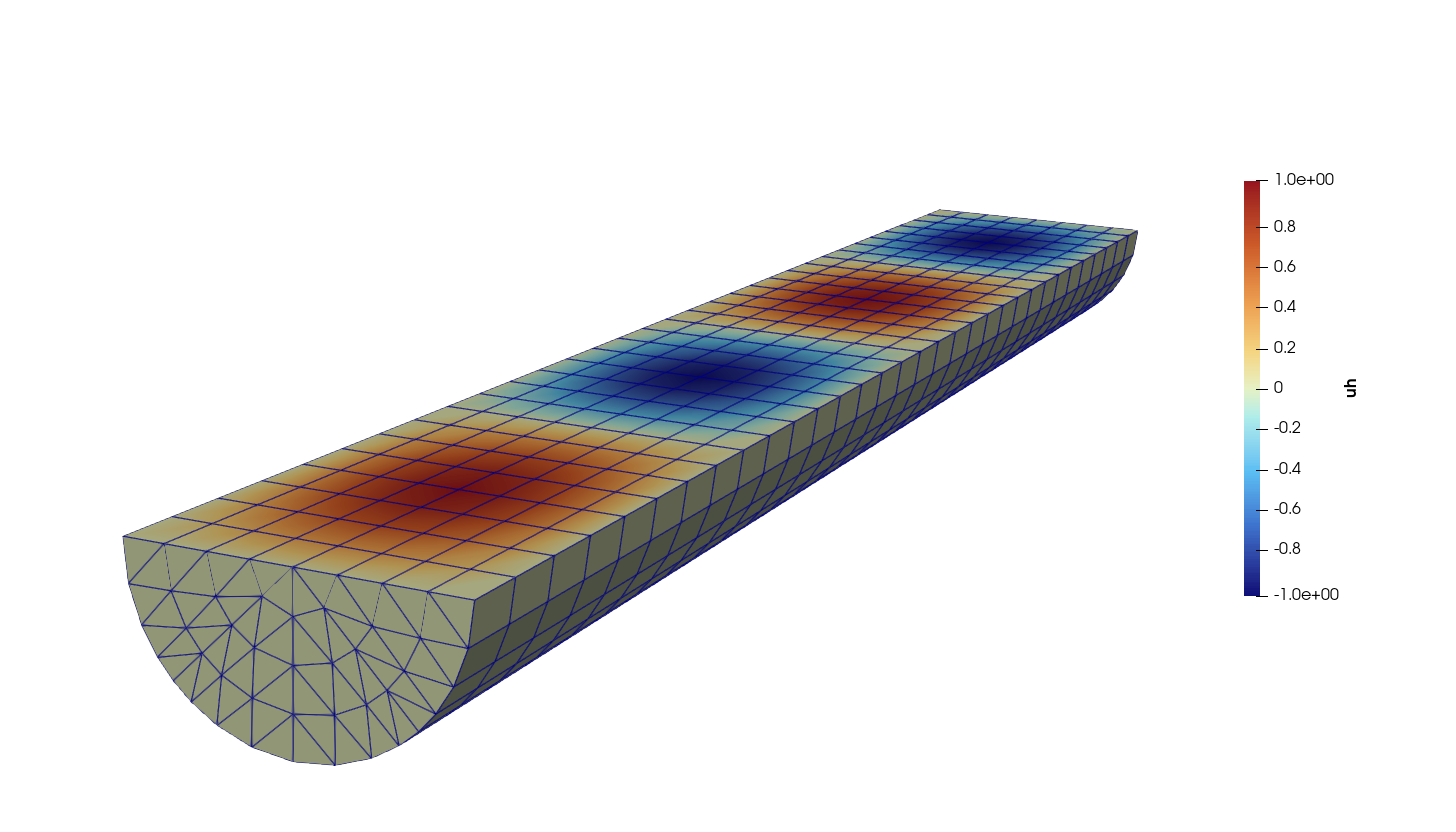
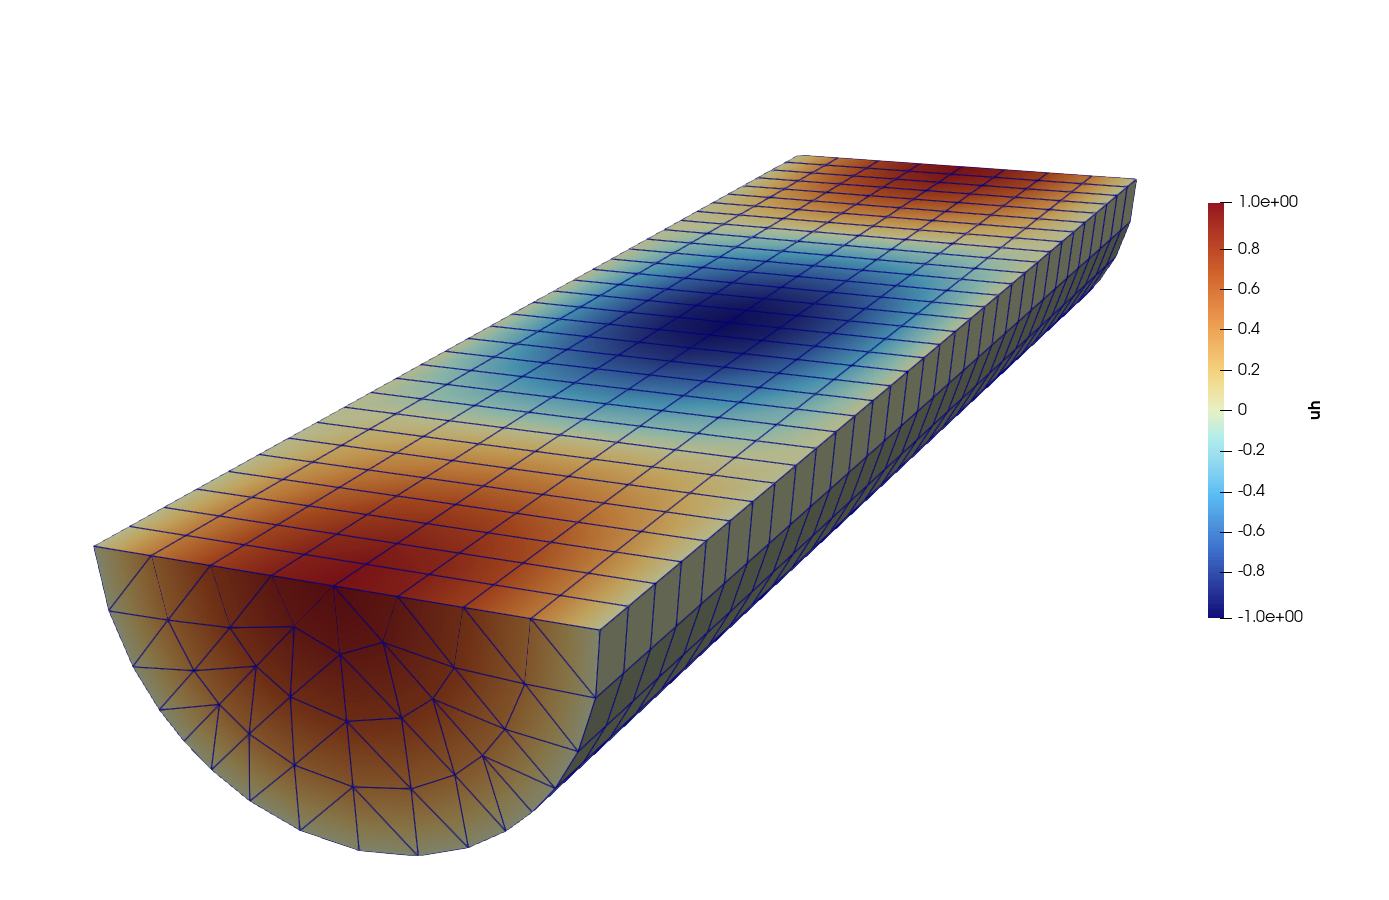
I have simplified exposition by making examples 3 and 4 the same problem. I have rewritten verbose sentences to make the demo clearer and easier to use

Changed region(s): [[0.0619, 0.1562, 0.9287, 0.9688], [0.9287, 0.4375, 0.9597, 0.4688]]

diff --git a/demos/periodic_meshes/periodic_meshes.py.rst b/demos/periodic_meshes/periodic_meshes.py.rst
@@ -112,16 +112,19 @@ We plot the solution below.
 
    Finite element solution to 2D periodic Poisson problem.
 
-3D Periodic Poisson Problem
----------------------------
+3D Periodic Helmholtz Problem
+-----------------------------
 
-Now we solve the 3D :math:`z`-periodic Poisson problem
+For the simplest 3D shapes (cube and cuboid) Firedrake is able to generate tetrahedral periodic meshes using the commands ``PeriodicUnitCubeMesh`` and ``PeriodicBoxMesh`` respectively.
+For cylindrical objects we have to construct a 2D cross-section and extrude, forming a mesh with prismatic elements. To construct any periodic mesh with tetrahedral elements we need to use Netgen, which is discussed in the next section.
+
+For now we solve the 3D :math:`z`-periodic Helmholtz problem
 
 .. math::
 
-    - \Delta u = (5 - x^2 - y^2)\sin(z), \quad u(x,y,0) = u(x, y, 2 \pi), \quad u\vert_{\text{walls}} = 0,
+    (I - \Delta) u = f , \quad u(x,y,0) = u(x, y, 2 \pi), \quad u\vert_{\text{walls}} = 0,
 
-on the domain
+on the cylindrical domain
 
 .. math::
 
@@ -132,19 +135,19 @@ on the domain
     0\le z\le 2\pi
     \right\}.
 
-The exact solution is
-:math:`u(x,y,z) = (1-x^2-y^2)\sin(z)`.
-In the case of cube or cuboid 3D periodic domains, Firedrake is able to make tetrahedral periodic meshes using the commands ``PeriodicUnitCubeMesh`` and ``PeriodicBoxMesh`` respectively.
-For this problem we need a periodic cylinder: we first build a 2D mesh for the desired cross section of the cylinder and then we use the command ``ExtrudedMesh`` with flag ``periodic=True`` to generate a mesh of prisms. ::
+We can manufacture a right-hand side by choosing the solution
+:math:`u_{\text{exact}}(x,y,z) = (1-x^2-y^2)\cos(z)` which gives :math:`f = (I - \Delta) u_{\text{exact}}`.
 
-    R = 2.0
+
+We build a 2D mesh for the desired cross section of the cylinder and then we use the command ``ExtrudedMesh`` with flag ``periodic=True`` to generate a mesh of prisms. ::
+
     refinements = 2
     base = UnitDiskMesh(refinements)
 
     mesh = ExtrudedMesh(
         base,
         layers=32,
-        layer_height=2*pi*R/32,
+        layer_height=2*pi/32,
         periodic=True,
     )
 
@@ -158,12 +161,15 @@ The two important arguments are ``layers`` and ``layer_height``, which tell Fire
     v = TestFunction(V)
 
     uh = Function(V, name="Numerical")
-    u_exact = (1 - x*x - y*y) * sin(z)
+    u_exact = (1 - x*x - y*y) * cos(z)
 
-    f = (5 - x*x - y*y) * sin(z)
+    f = u_exact - div(grad(u_exact))
 
-    a = inner(grad(u), grad(v))*dx
+    u = TrialFunction(V)
+    v = TestFunction(V)
+    a = (inner(u, v) + inner(grad(u), grad(v))) * dx
     L = inner(f, v) * dx
+
 
     bc = DirichletBC(V, 0.0, "on_boundary")
 
@@ -174,25 +180,26 @@ The two important arguments are ``layers`` and ``layer_height``, which tell Fire
     )
 
     print(f"L2 error = {errornorm(u_exact, uh, norm_type='L2'):.3e}")
-    VTKFile("output/cylinder_poisson.pvd").write(uh)
-
+    VTKFile("output/cylinder_fd_Helmholtz.pvd").write(uh)
 
 We plot the solution below.
 
 
 .. figure:: Example3.png
    :align: center
-   :alt: Cross-section of the finite element solution to a 3D periodic Poisson problem.
+   :alt: Cross-section of the finite element solution to a 3D periodic Helmholtz problem.
 
-   Cross-section of the finite element solution to a 3D periodic Poisson problem using prismatic elements.
+   Cross-section of the finite element solution to a 3D periodic Helmholtz problem using prismatic elements.
 
 Periodic Meshes From Netgen
 ---------------------------
 
+Netgen can help us generate a periodic mesh of tetrahedral elements.
+
 Netgen can identify pairs of vertices lying on opposite boundaries of a geometry as being *the same* point.
 When such a mesh is imported into Firedrake, the identified vertices are merged in the mesh topology, so that
 a continuous (CG) function space automatically shares its degrees of freedom across the seam: the mesh is
-genuinely **periodic**. This is exactly the representation Firedrake uses for its built-in ``PeriodicBoxMesh``, and it is now available for any Netgen geometry carrying
+genuinely **periodic**. This is exactly the representation Firedrake uses for its built-in ``PeriodicBoxMesh``, and it is also available for any Netgen geometry carrying
 periodic identifications.
 
 Identifications are declared on the geometry, before meshing, with the OCC
@@ -211,28 +218,21 @@ where ``transformation`` is the rigid motion (typically a translation) that maps
 Netgen then meshes the two boundaries compatibly and records the vertex pairs; Firedrake consumes them
 automatically -- no extra flag on the ``Mesh`` constructor is required.
 
-As a physically motivated example we build the *periodic cylinder*, the classic reduced ("screw pinch") model
-of a tokamak plasma column. A tokamak is a torus, so the plasma is periodic in the toroidal direction; in the
-large-aspect-ratio limit one straightens a toroidal section into a cylinder and identifies its two circular
-ends, recovering periodicity along the axis. 
-
-We take the axial (toroidal) coordinate to run over :math:`[0, 2\pi)`
-and identify the two end caps by a translation of :math:`2\pi R_0` along ``Z``. 
-:math:`R_0` is called the major radius and ensures that the torus that the cylinder defines is the correct length. ::
+To construct a periodic cylinder of length :math:`2\pi` we identify the two end caps of the cylinder by a translation of :math:`2\pi` along ``z``. :: 
 
     from netgen.occ import Cylinder, OCCGeometry, Pnt, Z, gp_Trsf, gp_Vec
     from netgen.meshing import IdentificationType
 
-    R0 = 1
-    height = 2 * pi * R0
+    height = 2 * pi 
     cyl = Cylinder(Pnt(0, 0, 0), Z, r=1.0, h=height)
+
     # Label the lateral wall, then the two end caps that we will identify.
     for face in cyl.faces:
         face.name = "wall"
     cyl.faces.Min(Z).name = "bottom"
     cyl.faces.Max(Z).name = "top"
+
     # Identify the bottom cap with the top cap: a translation of 2*pi along Z
-    # maps one onto the other, making the axial direction periodic.
     cyl.faces.Min(Z).Identify(cyl.faces.Max(Z), "toroidal",
                               IdentificationType.PERIODIC,
                               gp_Trsf.Translation(gp_Vec(0, 0, height)))
@@ -249,27 +249,16 @@ and identify the two end caps by a translation of :math:`2\pi R_0` along ``Z``.
 
 Because the two end caps have been identified, no boundary markers survive on them: the seam has become an
 *interior* set of facets, and the only labelled boundary that remains is the lateral wall. This is what makes
-a continuous field wrap around continuously in the axial direction. We can verify the geometry survived the
-merge intact -- the volume of the cylinder is :math:`\pi r^2 h = 2\pi^2 R0` -- while the ends carry no exterior
-facets::
+a continuous field wrap around continuously in the ``z``-direction. We can verify the geometry survived the
+merge intact --- the volume of the cylinder is :math:`\pi r^2 h = 2\pi^2`: ::
 
     volume = assemble(Constant(1.0) * dx(domain=msh))
     print(
         f"cylinder volume: {volume:.4f}  "
-        f"(exact 2*pi**2*R0 = {2*pi**2*R0:.4f})"
+        f"(exact 2*pi**2 = {2*pi**2:.4f})"
     )
 
-To show that the periodicity is doing real work, we solve a Helmholtz problem whose exact solution is periodic
-in the axial coordinate and vanishes on the lateral wall,
-
-.. math::
-
-   u_{\text{ex}}(x, y, z) = \cos(z/R_0) \bigl(1 - x^2 - y^2\bigr),
-
-so that we can impose a homogeneous Dirichlet condition on the wall while relying on the identified ends for
-continuity along the axis. We look up the id of the ``"wall"`` boundary with ``GetRegionNames`` (as in the
-Poisson example above) and manufacture the right-hand side :math:`f = u_{\text{ex}} - \Delta u_{\text{ex}}` for
-:math:`(I - \Delta)u = f`::
+We solve again the same Helmholtz problem as in the previous section. ::
 
     V = FunctionSpace(msh, "CG", 2)
     x, y, z = SpatialCoordinate(msh)
@@ -280,6 +269,8 @@ Poisson example above) and manufacture the right-hand side :math:`f = u_{\text{e
     v = TestFunction(V)
     a = (inner(u, v) + inner(grad(u), grad(v))) * dx
     L = inner(f, v) * dx
+    
+We look up the id of the ``"wall"`` boundary with ``GetRegionNames`` ::
 
     labels = [i + 1 for i, name in enumerate(ngmsh.GetRegionNames(codim=1)) if name == "wall"]
     bc = DirichletBC(V, 0, labels)
@@ -303,11 +294,17 @@ We plot the solution below with a "crinkle cut" cross-section to inspect the sol
 Netgen Tokamak Example
 ---------------------------
 
+Helmholtz problems on periodic cylinders are used in simplified models of magnetic confinement fusion devices, where the straight cylinder acts as a large-aspect-ratio approximation of a torus. 
+To obtain a more realistic geometry, we construct the domain in cylindrical coordinates and choose a cross-section representative of a tokamak plasma. After solving we transform the solution to Cartesian coordiantes. 
 
-We can also solve a Helmholtz problem on a realistic tokamak geometry, although we no longer have an analytical solution to test against.
-We now work with the physical cylindrical coordinates :math:`(R,\phi,Z)`.
-The cross-section is constructed in the :math:`(R,Z)` plane and extruded
-through one period in :math:`\phi`. 
+We describe the tokamak in cylindrical coordinates :math:`(R,\phi,Z)` where :math:`\phi` is the toroidal angle.
+The cross-section is constructed in the :math:`(R,Z)` plane. Rather than extruding by :math:`\phi` we extrude by the corresponding toroidal arc-length 
+
+.. math::
+
+  s = R_0 \phi,
+
+where :math:`R_0` is called the major radius. This makes one complete revolution of the tokamak have length :math:`2 \pi R_0`.
 We parametrize the tokamak cross-section using the formula 
 
 .. math::
@@ -382,23 +379,23 @@ where :math:`\delta` is the triangularity, :math:`\kappa` is the elongation, :ma
 
 The physical cylindrical coordinate convention is :math:`(R,\phi,Z)`.
 However, the Netgen mesh stores its coordinate components in the order
-:math:`(R,Z,\phi)`: the first two components are the coordinates of the
-cross-section and the third is the extrusion coordinate. We therefore unpack
-``SpatialCoordinate`` as ``R, Zc, phi``.
+:math:`(R,Z,s)`: the first two components are the coordinates of the
+cross-section and the third is the toroidal arc-length. We therefore unpack
+``SpatialCoordinate`` as ``R, Zc, s``.
 
 We solve the Helmholtz problem
 
 .. math::
 
-    (I-\Delta)u=f
+    (I-\Delta)u=f, \quad u(r, 0, z) = u(r, 2 \pi R_0, z), \quad u|_{\text{walls}} = 0,
 
 with source term
-:math:`f(R,\phi,Z)=RZ\cos(\phi)`. ::
+:math:`f(R,s,Z)=RZ\cos(s)`. ::
 
     V = FunctionSpace(msh, "CG", 2)
-    R, Zc, phi = SpatialCoordinate(msh)
+    R, Zc, s = SpatialCoordinate(msh)
 
-    f = R * Zc * cos(phi)
+    f = R * Zc * cos(s)
 
     u = TrialFunction(V)
     v = TestFunction(V)
@@ -416,7 +413,7 @@ with source term
     solve(a == L, uh, bcs=bc)
     VTKFile("output/tokamak_helmholtz.pvd").write(uh)
 
-We plot the output in :math:`(R, \phi, Z)`, a cylindrical representation:
+We plot the output in :math:`(R, s, Z)`, a cylindrical representation:
 
 
 .. figure:: Example5.png
@@ -431,16 +428,16 @@ Cartesian visualisation by interpolating the cylindrical-to-Cartesian map
 
 .. math::
 
-    (R,\phi,Z) \longmapsto
-    \bigl( R\cos(\phi / R_0), R\sin(\phi / R_0), Z \bigr)
+    (R,s,Z) \longmapsto
+    \bigl( R\cos(s / R_0), R\sin(s/ R_0), Z \bigr)
 
 into the mesh coordinate field. The mesh components must again be unpacked in
-their stored order, :math:`(R,Z,\phi)`::
+their stored order, :math:`(R,Z,s)`::
 
-    R, Zc, phiR0 = SpatialCoordinate(msh)
+    R, Zc, s = SpatialCoordinate(msh)
     msh.coordinates.interpolate(as_vector((
-        R*cos(phiR0/R0),
-        R*sin(phiR0/R0),
+        R*cos(s/R0),
+        R*sin(s/R0),
         Zc,
     )))
     VTKFile("TokamakCartesianSolution.pvd").write(uh)
